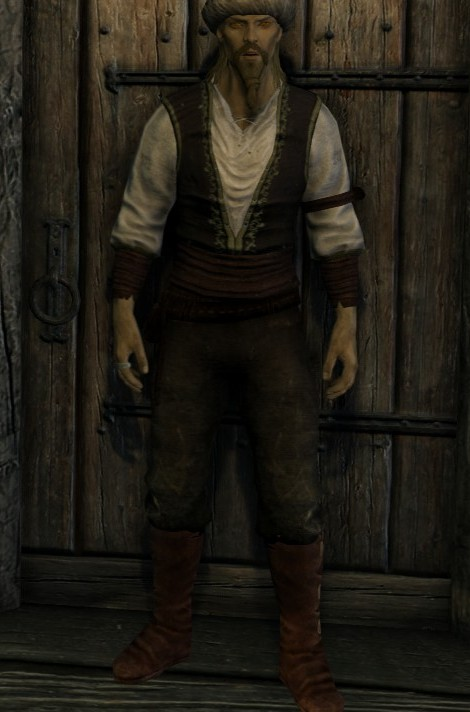
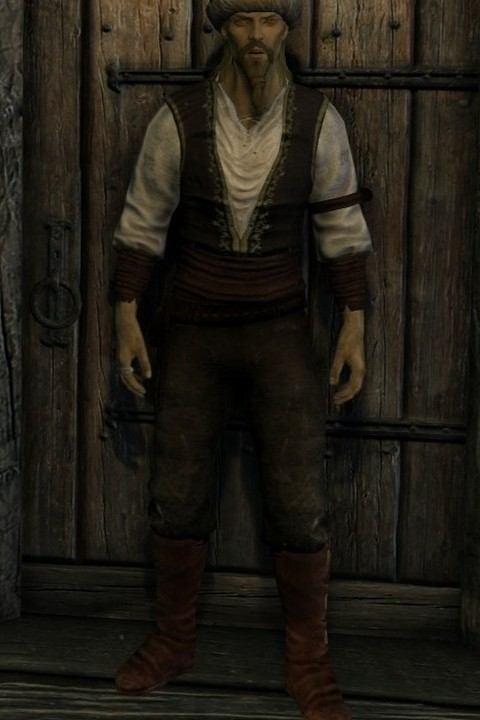
Site : cadre photo fixe (2:3), photos Belted Tunic au même format

diff --git a/index.html b/index.html
@@ -196,8 +196,8 @@ h2 {
   border: 1px solid var(--trait); border-radius: 4px; overflow: hidden;
   box-shadow: 0 2px 0 rgba(46, 36, 117, .08);
 }
-.article .photo { aspect-ratio: 4 / 5; background: var(--bande); position: relative; }
-.article .photo img { width: 100%; height: 100%; object-fit: cover; cursor: zoom-in; }
+.article .photo { aspect-ratio: 2 / 3; background: var(--bande); position: relative; overflow: hidden; }
+.article .photo img { position: absolute; inset: 0; width: 100%; height: 100%; object-fit: cover; object-position: top; cursor: zoom-in; }
 .article .photo .sexes {
   position: absolute; left: 50%; bottom: 8px; transform: translateX(-50%); display: flex;
   background: rgba(26, 20, 66, .78); border: 1px solid var(--violet-clair); border-radius: 999px; padding: 2px;
